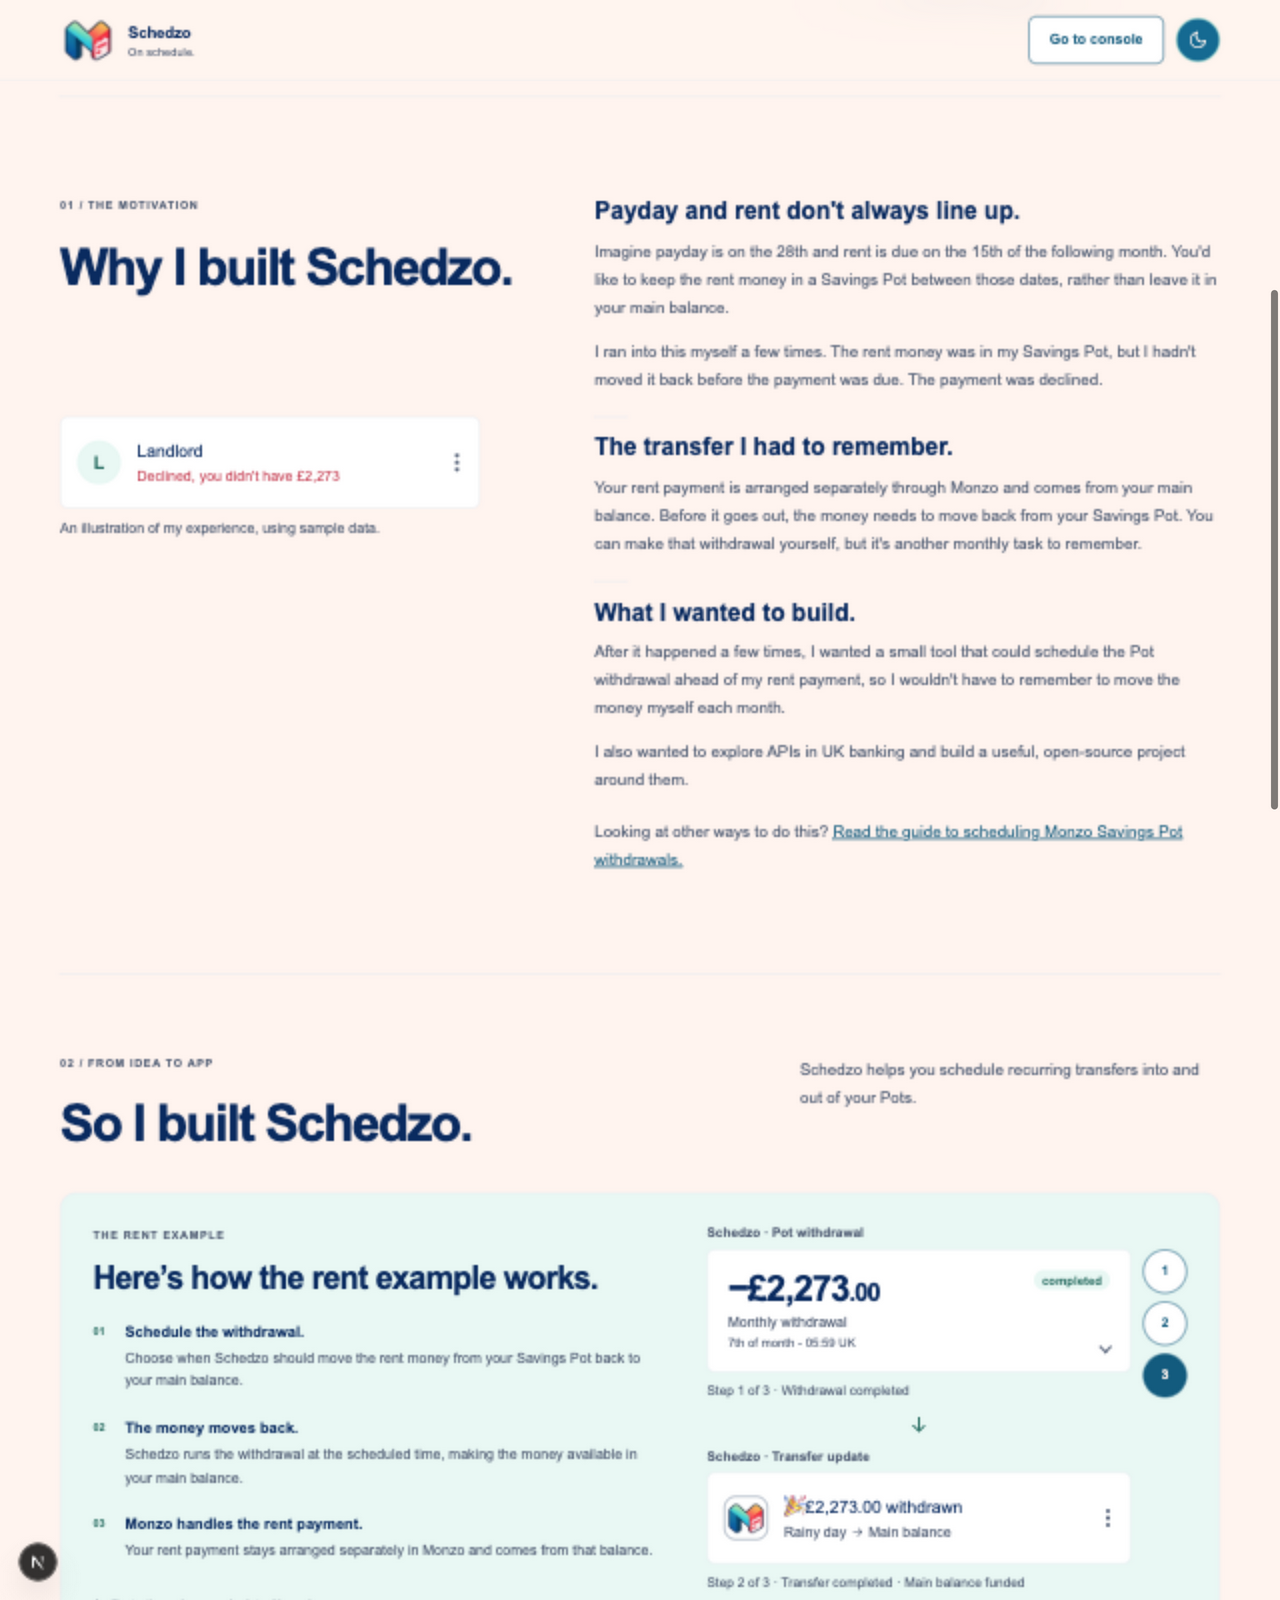
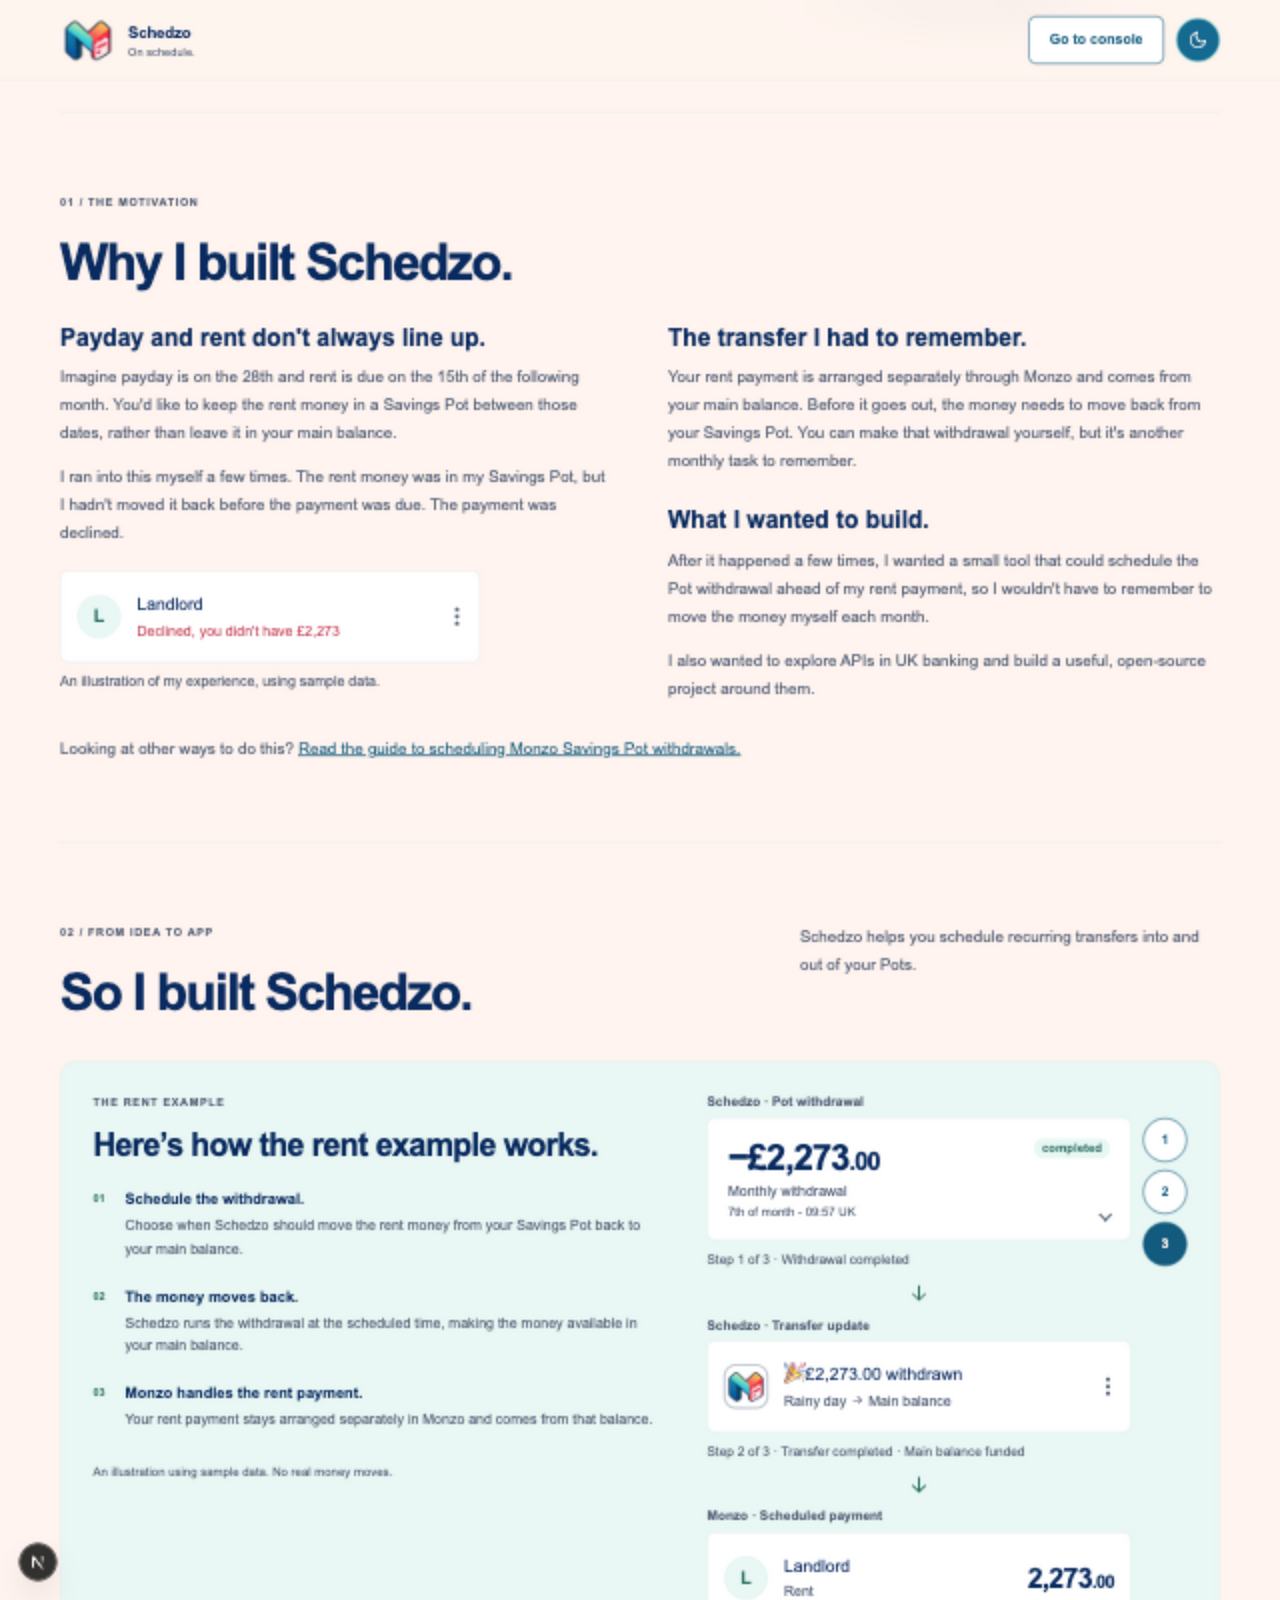
fix: balance landing page motivation layout

diff --git a/components/landing/landing-page/landing-page.tsx b/components/landing/landing-page/landing-page.tsx
@@ -77,42 +77,48 @@ export function LandingPage() {
             </ScrollReveal>
           </div>
           <div className={styles.storyContent}>
-            <ScrollReveal className={styles.storyProblem}>
-              <h3>Payday and rent don&apos;t always line up.</h3>
-              <p className={styles.storyText}>
-                Imagine payday is on the 28th and rent is due on the 15th of the following month. You&apos;d like to keep the rent money in a Savings Pot between those dates, rather than leave it in your main balance.
-              </p>
-              <p className={styles.storyText}>
-                I ran into this myself a few times. The rent money was in my Savings Pot, but I hadn&apos;t moved it back before the payment was due. The payment was declined.
-              </p>
-            </ScrollReveal>
-            <ScrollReveal className={styles.storyWorkaround}>
-              <h3>The transfer I had to remember.</h3>
-              <p className={styles.storyText}>
-                Your rent payment is arranged separately through Monzo and comes from your main balance. Before it goes out, the money needs to move back from your Savings Pot. You can make that withdrawal yourself, but it&apos;s another monthly task to remember.
-              </p>
-            </ScrollReveal>
-            <figure className={styles.declinedPreview}>
+            <div className={styles.storyProblem}>
               <ScrollReveal>
-                <MonzoTransaction revealTrigger="mount" kind="declined" amount={exampleRentAmount * 100} recipient="Landlord" initials="L" />
-                <figcaption>An illustration of my experience, using sample data.</figcaption>
+                <h3>Payday and rent don&apos;t always line up.</h3>
+                <p className={styles.storyText}>
+                  Imagine payday is on the 28th and rent is due on the 15th of the following month. You&apos;d like to keep the rent money in a Savings Pot between those dates, rather than leave it in your main balance.
+                </p>
+                <p className={styles.storyText}>
+                  I ran into this myself a few times. The rent money was in my Savings Pot, but I hadn&apos;t moved it back before the payment was due. The payment was declined.
+                </p>
+                <figure className={styles.declinedPreview}>
+                  <MonzoTransaction revealTrigger="mount" kind="declined" amount={exampleRentAmount * 100} recipient="Landlord" initials="L" />
+                  <figcaption>An illustration of my experience, using sample data.</figcaption>
+                </figure>
               </ScrollReveal>
-            </figure>
-            <ScrollReveal className={styles.storyMotivation}>
-              <h3>What I wanted to build.</h3>
-              <p className={styles.storyText}>
-                After it happened a few times, I wanted a small tool that could schedule the Pot withdrawal ahead of my rent payment, so I wouldn&apos;t have to remember to move the money myself each month.
-              </p>
-              <p className={styles.storyText}>
-                I also wanted to explore APIs in UK banking and build a useful, open-source project around them.
-              </p>
-            </ScrollReveal>
-            <ScrollReveal className={styles.storyArticle}>
-              <p className={styles.storyText}>
-                Looking at other ways to do this? <a href="/schedule-monzo-savings-pot-withdrawals">Read the guide to scheduling Monzo Savings Pot withdrawals.</a>
-              </p>
-            </ScrollReveal>
+            </div>
+            <div className={styles.storyResponse}>
+              <div className={styles.storyWorkaround}>
+                <ScrollReveal>
+                  <h3>The transfer I had to remember.</h3>
+                  <p className={styles.storyText}>
+                    Your rent payment is arranged separately through Monzo and comes from your main balance. Before it goes out, the money needs to move back from your Savings Pot. You can make that withdrawal yourself, but it&apos;s another monthly task to remember.
+                  </p>
+                </ScrollReveal>
+              </div>
+              <div className={styles.storyMotivation}>
+                <ScrollReveal>
+                  <h3>What I wanted to build.</h3>
+                  <p className={styles.storyText}>
+                    After it happened a few times, I wanted a small tool that could schedule the Pot withdrawal ahead of my rent payment, so I wouldn&apos;t have to remember to move the money myself each month.
+                  </p>
+                  <p className={styles.storyText}>
+                    I also wanted to explore APIs in UK banking and build a useful, open-source project around them.
+                  </p>
+                </ScrollReveal>
+              </div>
+            </div>
           </div>
+          <ScrollReveal className={styles.storyArticle}>
+            <p className={styles.storyText}>
+              Looking at other ways to do this? <a href="/schedule-monzo-savings-pot-withdrawals">Read the guide to scheduling Monzo Savings Pot withdrawals.</a>
+            </p>
+          </ScrollReveal>
         </section>
 
         <section id="building" className={styles.buildSection} aria-labelledby="building-heading">

diff --git a/components/landing/landing-page/landing-page.module.css b/components/landing/landing-page/landing-page.module.css
@@ -271,25 +271,39 @@
 }
 
 .storySection {
-  display: grid;
-  grid-template-columns: minmax(0, 0.85fr) minmax(0, 1.15fr);
-  grid-template-areas:
-    "intro problem"
-    "declined workaround"
-    "declined motivation"
-    "declined article";
-  column-gap: clamp(48px, 6vw, 72px);
-  row-gap: var(--space-6);
   border-top: 1px solid var(--color-border);
-  padding-block: 100px;
+  padding-block: 80px;
 }
 
-.sectionIntro { grid-area: intro; }
-.storyContent { display: contents; }
-.storyProblem { grid-area: problem; }
-.storyWorkaround { grid-area: workaround; }
-.storyMotivation { grid-area: motivation; }
-.storyArticle { grid-area: article; }
+.sectionIntro { margin-bottom: var(--space-8); }
+
+.storyContent {
+  --story-column-gap: clamp(40px, 4.375vw, 56px);
+  --story-topic-gap: var(--space-8);
+  display: grid;
+  grid-template-columns: repeat(2, minmax(0, 1fr));
+  align-items: start;
+  column-gap: var(--story-column-gap);
+  min-width: 0;
+}
+
+.storyResponse {
+  display: flex;
+  flex-direction: column;
+  gap: var(--story-topic-gap);
+  min-width: 0;
+}
+
+.storyProblem,
+.storyWorkaround,
+.storyMotivation {
+  min-width: 0;
+}
+
+.storyArticle {
+  margin-top: var(--space-8);
+  max-width: 800px;
+}
 
 .sectionIntro h2,
 .buildHeading h2,
@@ -303,24 +317,10 @@
   line-height: 1.1;
 }
 
-.storyContent {
-  min-width: 0;
-  padding-top: var(--space-1);
-}
-
 .storyContent h3 {
   margin: 0 0 var(--space-3);
   color: var(--color-heading);
   font-size: 1.5rem;
-}
-
-.storyWorkaround h3::before,
-.storyMotivation h3::before {
-  display: block;
-  width: 2rem;
-  padding: var(--space-2) 0;
-  border-top: 1px solid var(--color-border);
-  content: "";
 }
 
 .storyText {
@@ -337,6 +337,7 @@
 }
 
 .storyContent a,
+.storyArticle a,
 .joinDescription a {
   color: var(--color-interactive);
 }
@@ -359,11 +360,9 @@
 }
 
 .declinedPreview {
-  grid-area: declined;
-  align-self: start;
   min-width: 0;
   width: min(100%, 420px);
-  margin: 0;
+  margin: var(--space-6) 0 0;
 }
 
 .declinedPreview figcaption {
@@ -536,18 +535,12 @@
 @media (max-width: 960px) {
   .hero { grid-template-columns: minmax(0, 1fr) minmax(0, 0.9fr); gap: var(--space-8); }
   .hero h1 { font-size: clamp(2.75rem, 5vw, 3.5rem); }
-  .storySection { column-gap: var(--space-8); }
   .buildHeading { gap: var(--space-8); }
-}
 
-@media (max-width: 820px) {
-  .storySection {
+  .storyContent {
     grid-template-columns: minmax(0, 1fr);
-    grid-template-areas: "intro" "problem" "workaround" "declined" "motivation" "article";
-    row-gap: var(--space-5);
+    row-gap: var(--story-topic-gap);
   }
-
-  .storyContent { padding-top: 0; }
 }
 
 @media (max-width: 700px) {
@@ -572,14 +565,8 @@
   .heroActions > a { min-width: 0; padding-inline: var(--space-3); }
   .heroNote { margin-bottom: var(--space-4); }
   .storySection {
-    grid-template-columns: minmax(0, 1fr);
-    grid-template-areas: "intro" "problem" "workaround" "declined" "motivation" "article";
-    row-gap: var(--space-5);
     padding-block: 56px;
   }
-  .storyContent { padding-top: 0; }
-  .storyWorkaround h3::before,
-  .storyMotivation h3::before { width: 100%; padding-top: var(--space-4); }
   .buildSection { padding-block: 56px; }
   .buildHeading { align-items: start; flex-direction: column; gap: var(--space-4); }
   .buildDescription { max-width: 440px; }

diff --git a/.github/pr-evidence/16/README.md b/.github/pr-evidence/16/README.md
@@ -11,6 +11,20 @@ Rendered with the T3 collaborative browser using sample accounts and transfers.
 
 These files are review evidence, not application assets.
 
+## Motivation layout
+
+- Updated motivation captures show the full-width heading, the experience and
+  declined-payment preview together on the left, and the workaround and
+  motivation on the right. The guide link follows both columns.
+- The story stacks at 960px and below. Reading order remains context, declined payment,
+  workaround, motivation, and guide link.
+- Captures retain the light theme, matching PR-base image dimensions, and
+  desktop 1280 × 1600 / mobile 390 × 1800 viewports. The subsequent payment
+  example is set to its completed stage.
+- Checks cover widths 320, 390, 768, 960, 961, 1024, 1280, and 1440 in both
+  themes with no horizontal overflow. The desktop story columns finish about
+  9px apart at both 1280px and 1024px.
+
 ## Notification caption update
 
 - `base-landing-notification-*` captures use the same PR base SHA listed above;
